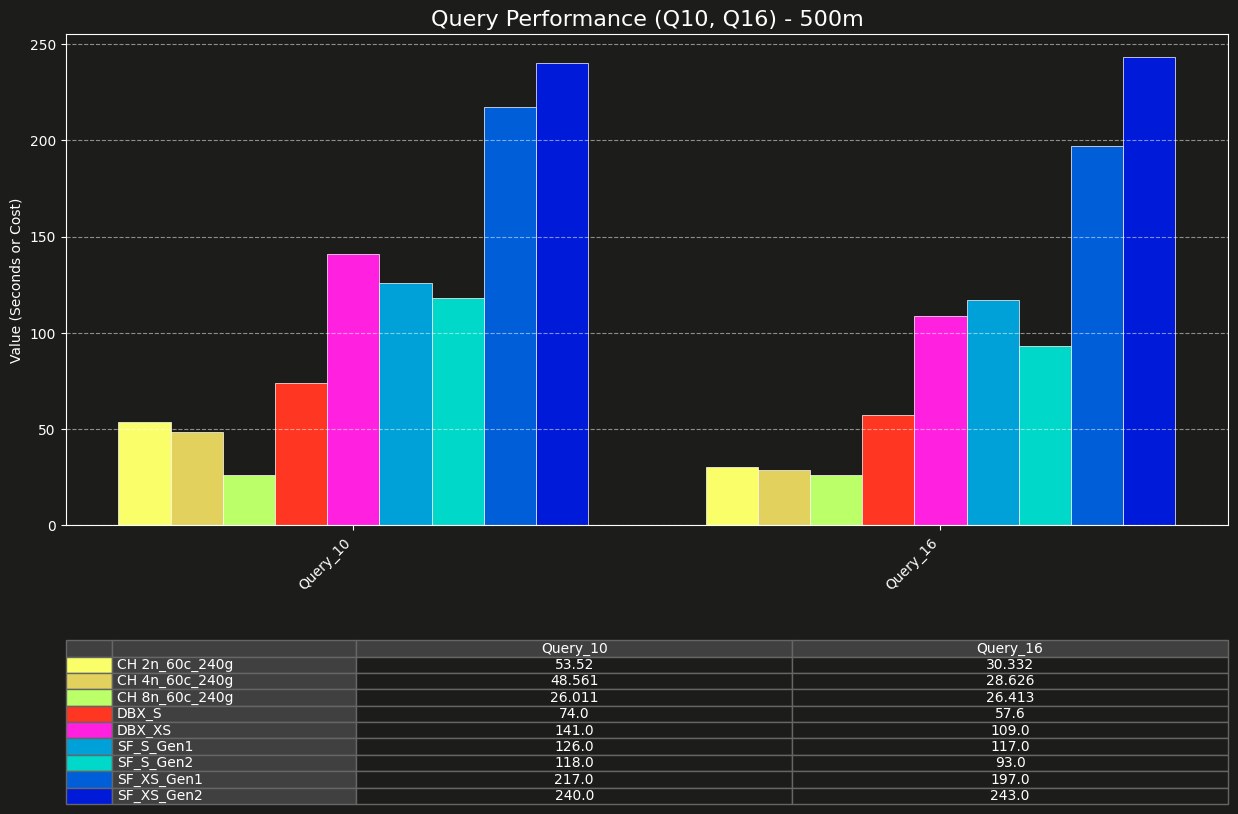
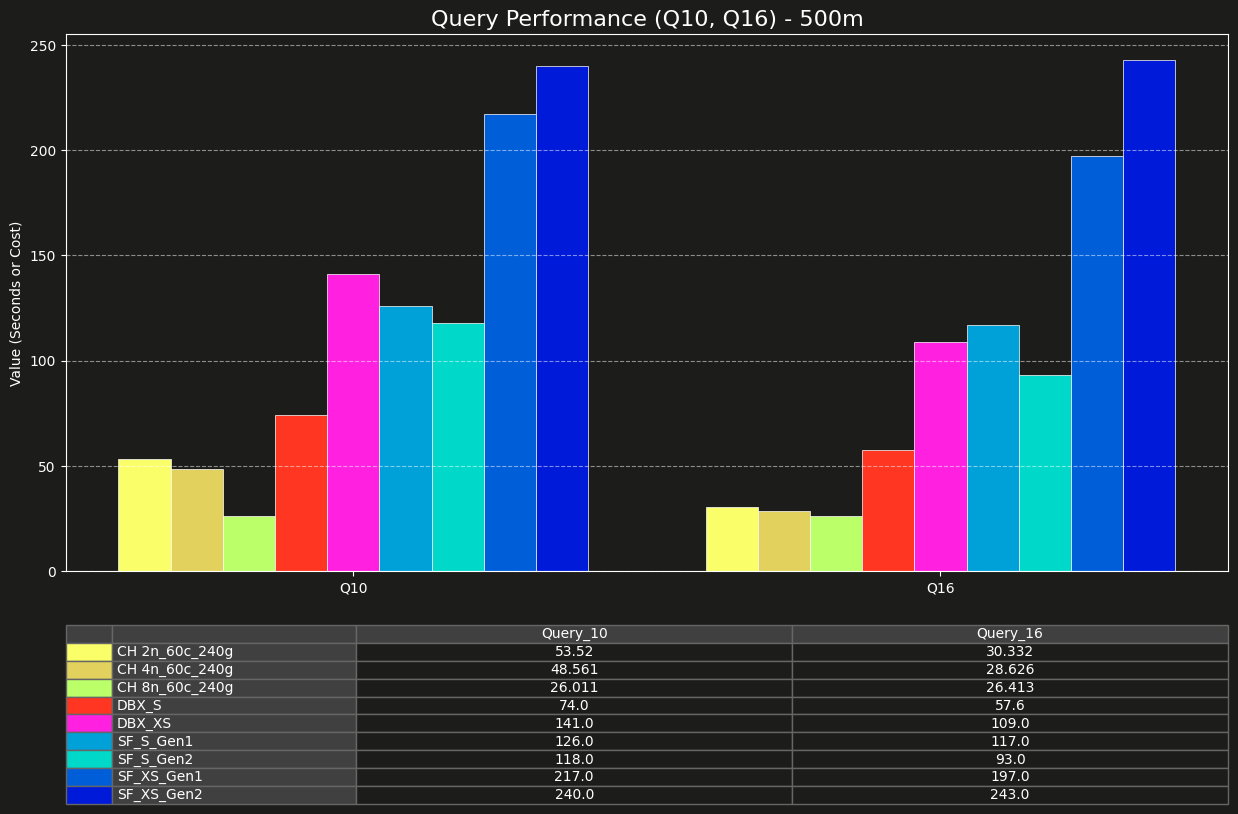
labels & gap

diff --git a/charts/main.py b/charts/main.py
@@ -232,7 +232,7 @@ def generate_chart_and_table(df_filtered, title, output_filename_base, queries_t
     fig = plt.figure(figsize=(max(15, num_queries * 1.5), 10)) # Increased height for table
     fig.patch.set_facecolor('#1C1C1A') # Set figure background
 
-    gs = gridspec.GridSpec(2, 1, height_ratios=[3, 1], hspace=0.35) # 2 rows, 1 col; chart gets 3 parts, table 1 part. hspace adds space.
+    gs = gridspec.GridSpec(2, 1, height_ratios=[3, 1], hspace=0.15) # 2 rows, 1 col; chart gets 3 parts, table 1 part. hspace adds space.
     ax_chart = fig.add_subplot(gs[0]) # Axis for the bar chart
     ax_chart.set_facecolor('#1C1C1A') # Set chart area background
 
@@ -363,7 +363,20 @@ def generate_chart_and_table(df_filtered, title, output_filename_base, queries_t
         ax_chart.grid(True, axis='x', linestyle='--', color='white', alpha=0.5) # Grid for horizontal bars
     else:
         ax_chart.set_xticks(indices)
-        ax_chart.set_xticklabels(pivot_df.columns, rotation=45, ha="right", color='white')
+        # Check if this is a per-query chart (not a total chart)
+        if not ('total query performance' in title.lower() or 'total query cost' in title.lower()):
+            # Transform Query_02 format to Q2 format for per-query charts
+            simplified_labels = []
+            for label in pivot_df.columns:
+                if label.startswith('Query_'):
+                    # Extract the number part and convert Query_02 to Q2
+                    query_num = label.replace('Query_', '')
+                    simplified_labels.append(f'Q{int(query_num)}')
+                else:
+                    simplified_labels.append(label)
+            ax_chart.set_xticklabels(simplified_labels, color='white')  # No rotation for per-query charts
+        else:
+            ax_chart.set_xticklabels(pivot_df.columns, rotation=45, ha="right", color='white')  # Keep rotation for total charts
         ax_chart.set_ylabel('Value (Seconds or Cost)', color='white')
         ax_chart.grid(True, axis='y', linestyle='--', color='white', alpha=0.5) # Grid for vertical bars
 
